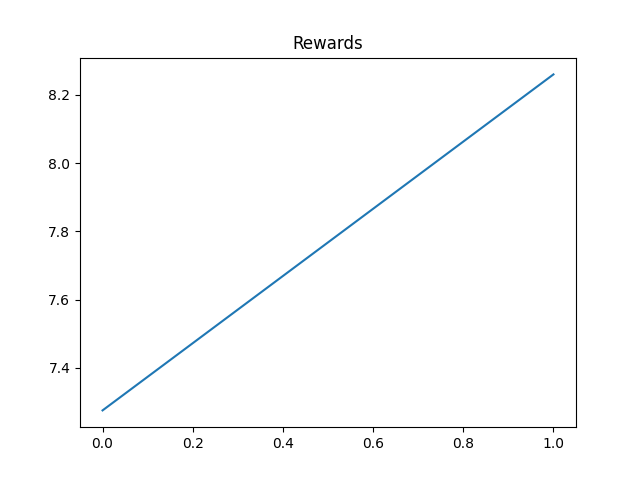
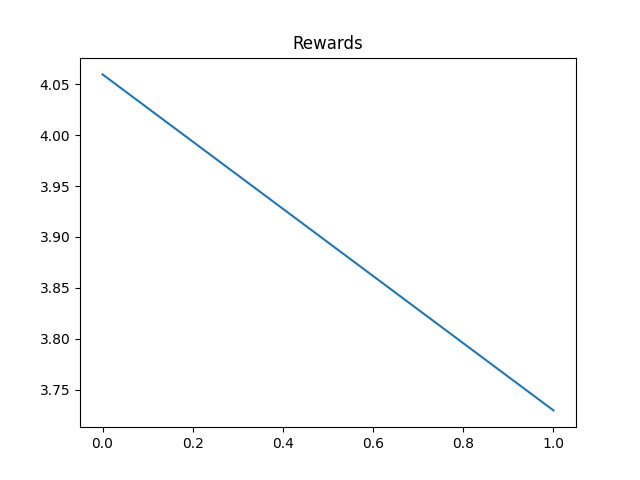
Using epsilon greedy selection

diff --git a/pipelines/run_dqn.py b/pipelines/run_dqn.py
@@ -37,7 +37,7 @@ class ReplayMemory(object):
 
 # Select an action given model and state
 # Returns action index
-def select_action(model: DQN, state: Tensor, t:int, strategy: int=config["STRATEGY"], use_strategy=False, only_use_strategy=False):
+def select_action(model: DQN, state: Tensor, t:int, strategy: int=config["STRATEGY"], use_exploration=False, use_strategy=False, only_use_strategy=False):
     # Get q values for this state
     with torch.no_grad():
         q, num = model.policy_net(state)
@@ -69,6 +69,13 @@ def select_action(model: DQN, state: Tensor, t:int, strategy: int=config["STRATE
         num = config["SHARE_TRADE_LIMIT"] * num.item()
     else:
         num = config["SHARE_TRADE_LIMIT"] * num[action_index].item()
+    
+    # Generate random action and num using epsilon exploration
+    if random.random() < config["EPSILON"]:
+        action_index = random.randint(0,  2)
+
+    if random.random() < config["EPSILON"]:
+        num = random.uniform(0, 1)
     
     # If confidence is high enough, return the action of the highest q value
     return action_index, num
